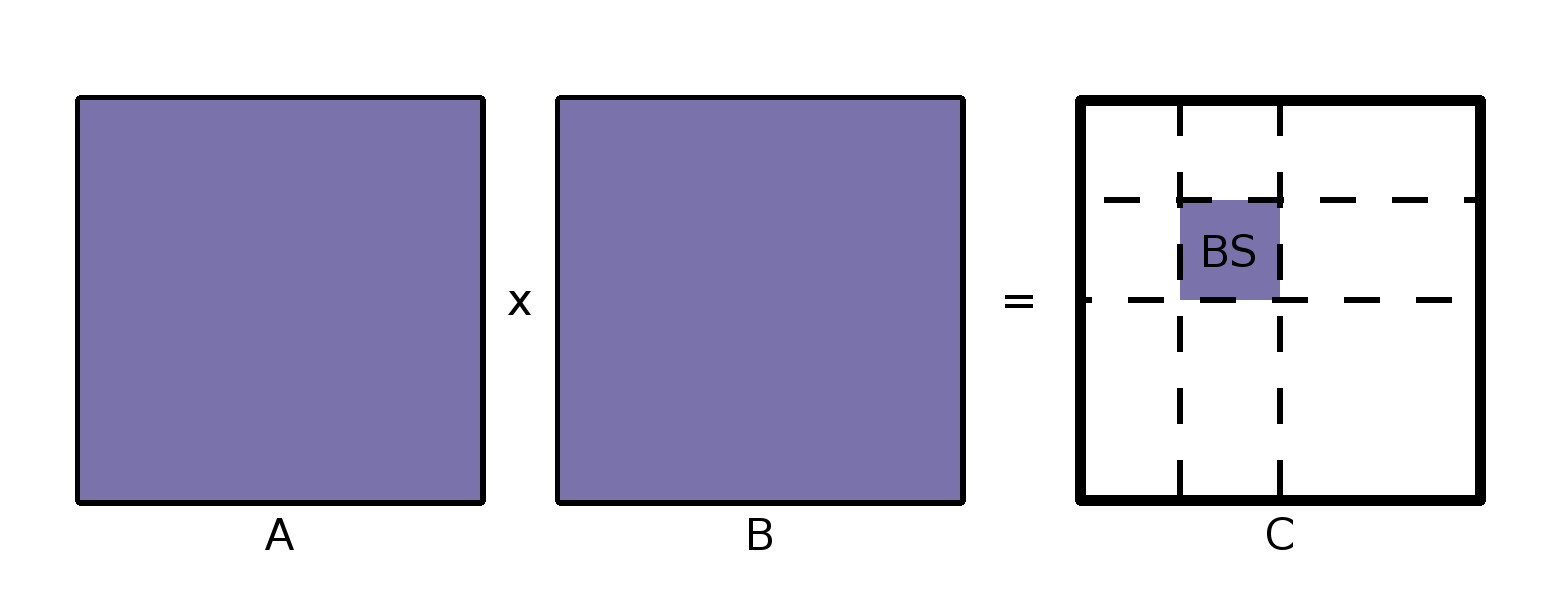
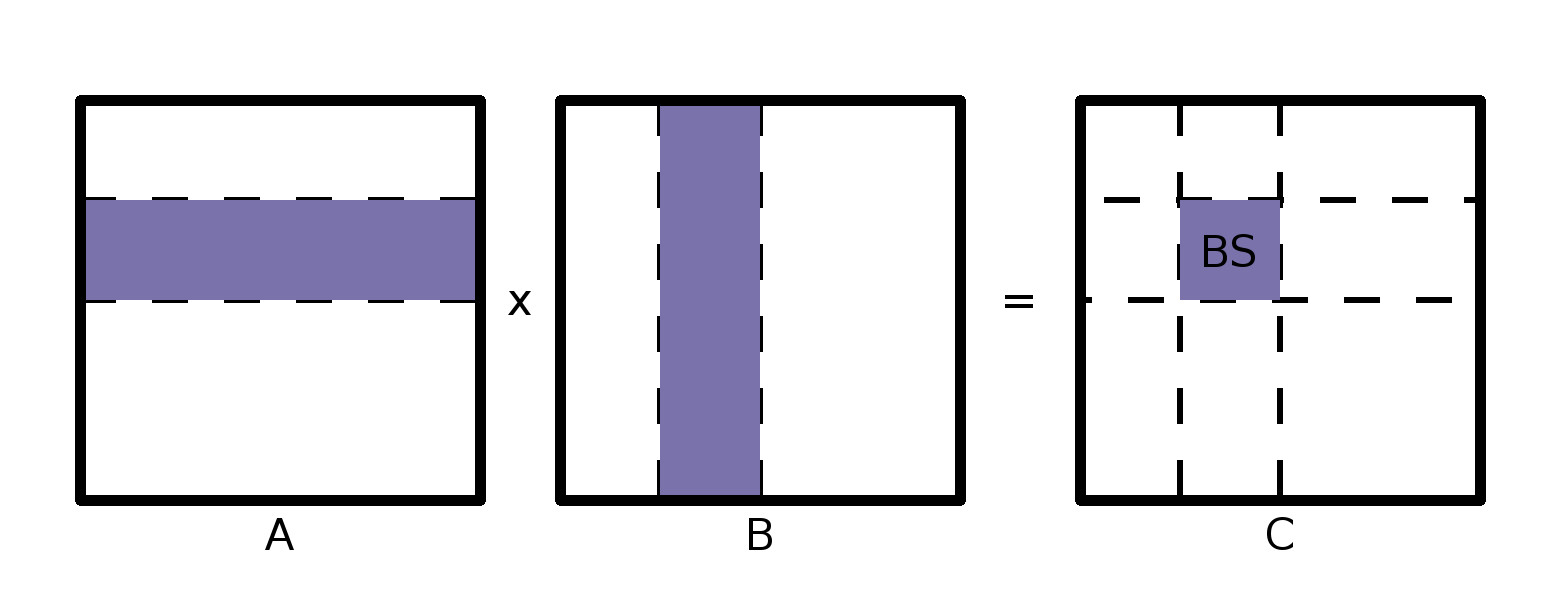
first image ready

diff --git a/Report/SprawozdaniePR.tex b/Report/SprawozdaniePR.tex
@@ -161,7 +161,7 @@ W realizowanym temacie zostało wykorzystane inne podejście -- wykorzystanie pa
 \end{listing}
 
 \newpage
-Kod źródłowy przedstawiony na listingu \ref{lst:kernel} to funkcja -- kernel, uruchamiany na karcie graficznej. Początkowe linie (4 - 13) służą wyznaczeniu przechowywanych w rejestrach wartości, wykorzystywanych dalej do indeksowania oraz sterowania pętlą. Następnie ma miejsce deklaracja tymczasowej zmiennej akumulującej obliczane iloczyny odpowiednich elementów macierzy. Pętla obejmujące linie 16 - 32 służy iteracji po kolejnych blokach macierzy A i B. Jeden blok wątków oblicza jeden blok macierzy wynikowej, jednak potrzebuje kolejno wszystkich bloków macierzy źródłowych, w celu wyznaczenia pełnego wyniku (analogicznie do zewnętrznych pętli metody 6-pętlowej dla CPU).
+Kod źródłowy przedstawiony na listingu \ref{lst:kernel} to funkcja -- kernel, uruchamiany na karcie graficznej. Początkowe linie (4 - 13) służą wyznaczeniu przechowywanych w rejestrach wartości, wykorzystywanych dalej do indeksowania oraz sterowania pętlą. Następnie ma miejsce deklaracja tymczasowej zmiennej akumulującej obliczane iloczyny odpowiednich elementów macierzy. Pętla obejmujące linie 16 - 32 służy iteracji po kolejnych blokach macierzy A i B. Jeden blok wątków oblicza jeden blok macierzy wynikowej, jednak potrzebuje całego wiersza bloków macierzy A i całej kolumny bloków macierzy B, w celu wyznaczenia pełnego wyniku (analogicznie do zewnętrznych pętli metody 6-pętlowej dla CPU).
 
 Linie 20-23 służą deklaracji oraz pobraniu danych z pamięci globalnej do pamięci współdzielonej. Wątki w ramach połowy warpu odwołują się do sąsiednich komórek macierzy (wartości \verb|tx| są kolejnymi liczbami), co pozwala na efektywny, łączony dostęp do pamięci globalnej.
 
@@ -175,26 +175,26 @@ Po wykonaniu obliczeń, konieczna jest również synchronizacja, aby wątki nale
 Ostatecznie w linii 34 wynik przechowywany w zmiennej tymczasowej jest zapisywany macierzy C w pamięci globalnej pod odpowiednim indeksem. Tutaj również wątki odwołują się do kolejnych adresów, zatem możliwe jest połączenie danych zapisywanych przez wątki z połowy warpu w jedną transakcję.\\
 
 \begin{figure}
-  \includegraphics[width=\linewidth]{images/seq_version.jpg}
+  \includegraphics[width=\linewidth]{images/sync.png}
   \caption{Wersja sekwencyjna - kopiowanie na kartę graficzną, wykonywanie obliczeń i kopiowanie wyniku następują po sobie}
   \label{fig:seq}
 \end{figure}
 
 \begin{figure}
-  \includegraphics[width=\linewidth]{images/async_version.jpg}
+  \includegraphics[width=\linewidth]{images/async.png}
   \caption{Wersja asynchroniczna - strumienie zaczynają przetwarzanie zaraz po przekopiowaniu swojej części danych}
   \label{fig:async}
 \end{figure}
 
 \begin{figure}
   \includegraphics[width=\linewidth]{images/1.jpg}
-  \caption{TODO}
+  \caption{Jeden blok wątków wyznacza jednen blok macierzy wynikowej rozmiaru BS. W czasie obliczeń wykorzystuje wiersz bloków macierzy A i kolumnę bloków B.}
   \label{fig:matrix1}
 \end{figure}
 
 \begin{figure}
   \includegraphics[width=\linewidth]{images/2.jpg}
-  \caption{TODO}
+  \caption{}
   \label{fig:matrix2}
 \end{figure}
 
